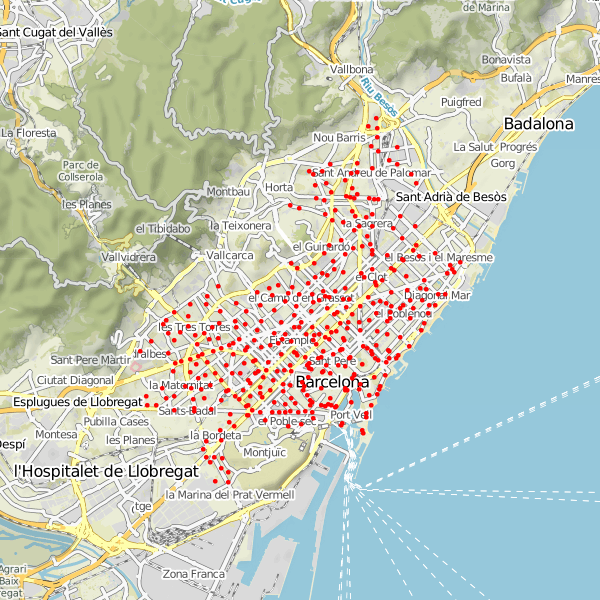
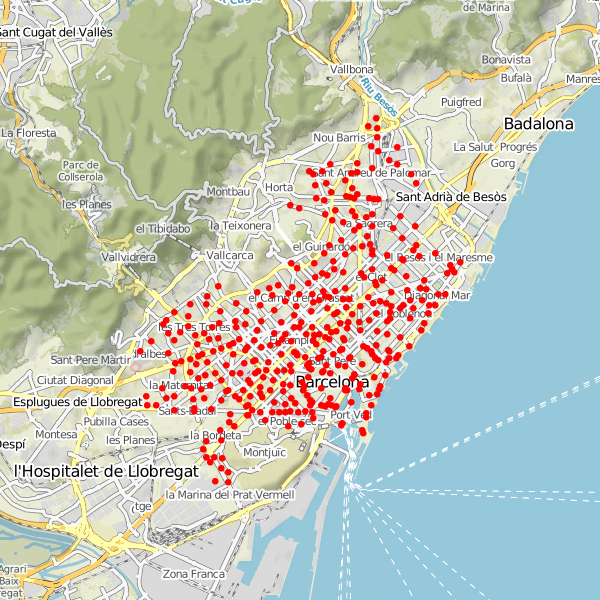
comments

diff --git a/mierda.py b/mierda.py
@@ -26,8 +26,9 @@ def Paint_Graph(G):
     try:
         m_bcn = StaticMap(600, 600)
         for node in G.nodes:
-            print(node)
-            marker = CircleMarker((node[1], node[0]), 'red', 4)
+            print(node) #esto no vale pa na, era pa ver como daba los nodes
+            #ojo, aqui hay que poner primero longitud y luego latitud
+            marker = CircleMarker((node[1], node[0]) , 'red', 6 #esto es el tamaño del punto)
             m_bcn.add_marker(marker)
 
         image = m_bcn.render()
